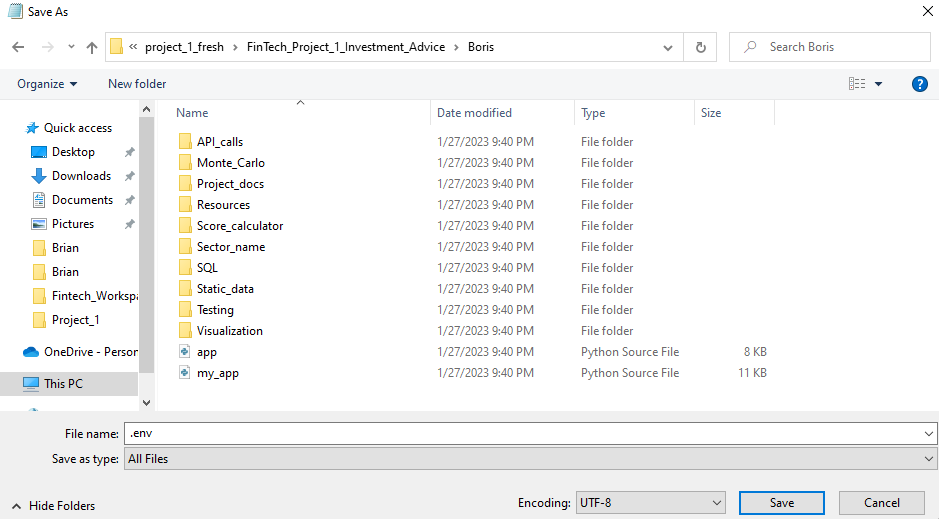
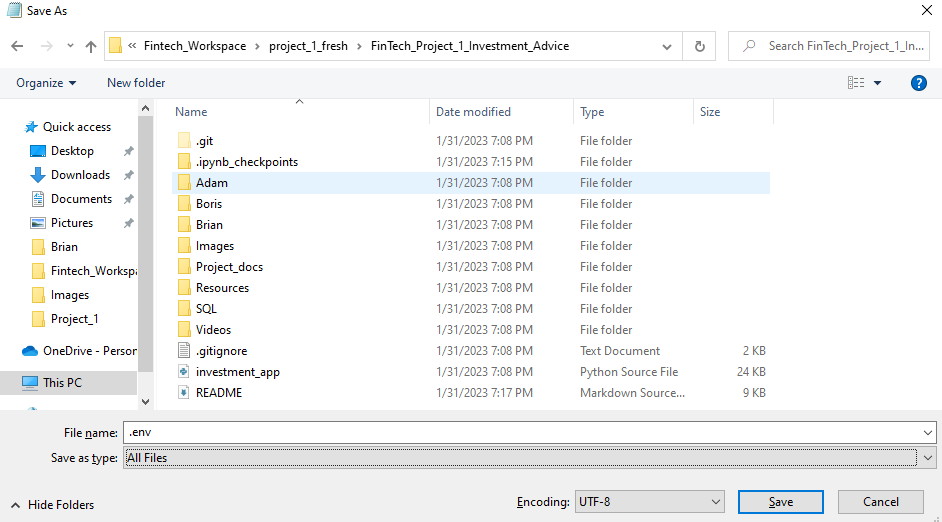
Updated readme and an image for the .env section

diff --git a/README.md b/README.md
@@ -33,8 +33,6 @@ _Libraries_
 2. `PyViz` is a Python visualization package that provides a single platform for accessing multiple visualization libraries. The visualization libraries used in this application are listed below: <br/>
 
    - [PyViz ](https://pyviz.org/) - for guidance on how to start visualization, interactive visualization, styles and layouts customization.
-   - [Bokeh](https://bokeh.org/) - is an open source vizualization library that allows developers to create interactive plots. 
-   - [Holoviews](https://holoviews.org/) - is an open source vizualization library that allows developers to create interactive plots, designed to interact with tabular data. 
    - [Plotly](https://plotly.com/) - is a library that allows developers to build interactive charts, tables and graphs from data.
 
 3. `SQLAlchemy` is an open-source SQL library for Python. It is designed to ease the communication between Python-based programs and databases"
@@ -78,7 +76,7 @@ To create the .env file, open a .txt document and type in your keys from the Alp
 
 ![env](Images/env.PNG)
 
-Rename the text file to .env and save the file to the 'Boris' Directory after selecting 'All Files':
+Rename the text file to .env and save the file to the root directory after selecting 'All Files':
 
 ![env_save](Images/env_save.PNG)
 
@@ -96,23 +94,14 @@ pip install pandas
 conda install pandas
 ```
 
-To install the PyViz visualizations, in Terminal run:
+To install the plotly visualization library, in Terminal run:
 
 ```python
-# conda
-conda install -c pyviz bokeh holoviews plotly
+pip install plotly==5.13.0
 ```
 
-Confirm the installation of all the PyViz packages by running the following commands in Terminal:
-```python
-conda list pyviz
-```
-```python
- conda list bokeh
-```
-```python
- conda list holoviews
-```
+Confirm the installation of the plotly package by running the following command in Terminal:
+
 ```python
  conda list plotly
 ```
@@ -222,7 +211,13 @@ Boris Dudkin:
 - [LinkedIn](www.linkedin.com/in/Boris-Dudkin)
 
 Brian Wander:
+
 - [Email](brianwander101@gmail.com)
+
+Adam Jimenez:
+
+- [Email](adamjimenez642@gmail.com)
+- [LinkedIn](linkedin.com/in/adam-jimenez)
 
 ---
 
